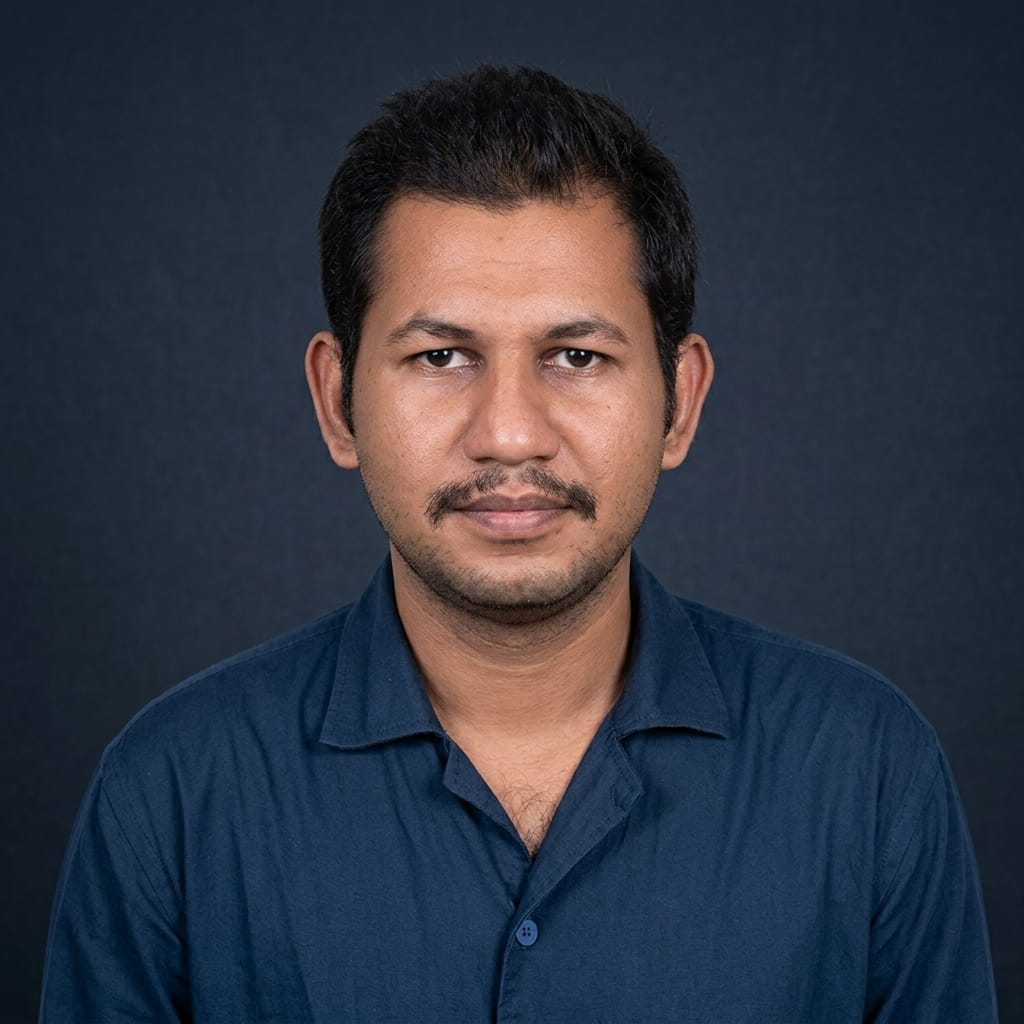
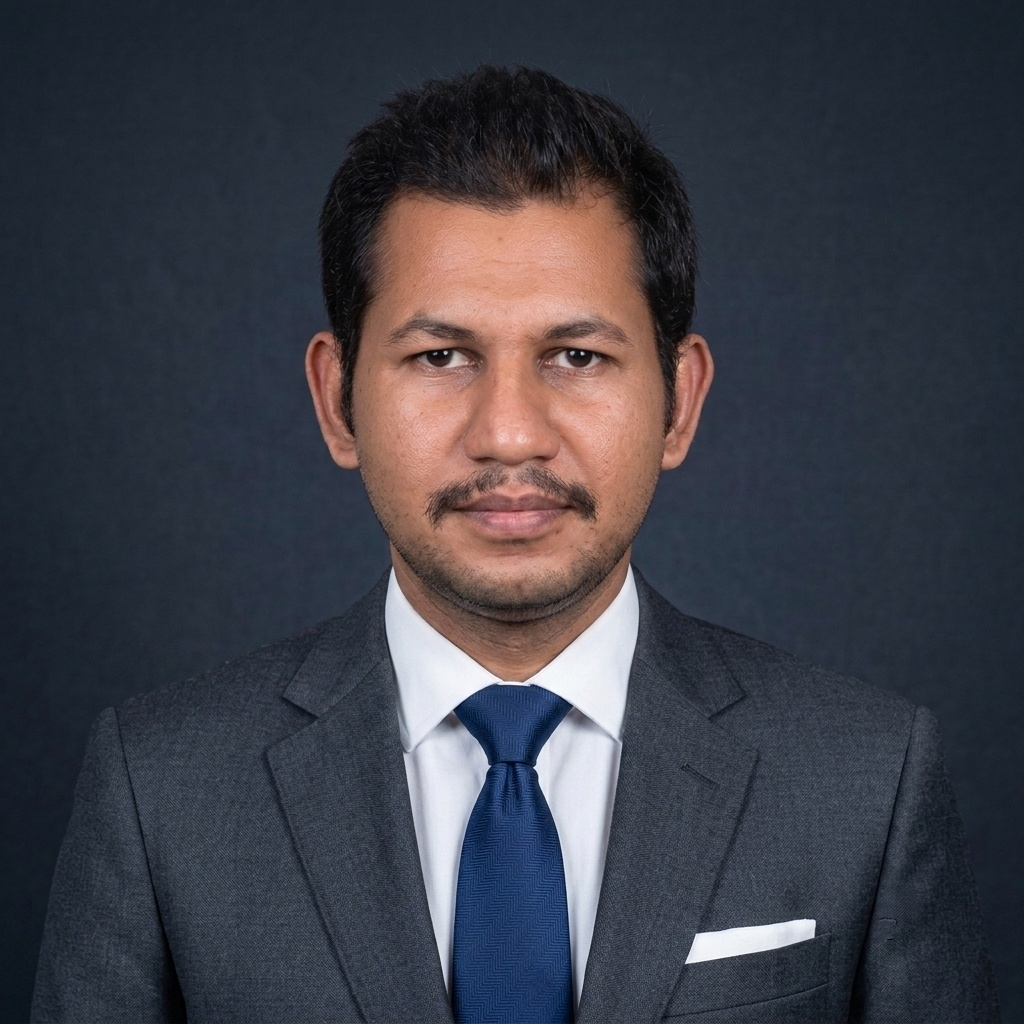
feat(portrait): add watermark-free professional portrait in webp and jpg formats

Changed region(s): [[0.0312, 0.5312, 1.0, 1.0]]

diff --git a/src/components/Hero.tsx b/src/components/Hero.tsx
@@ -179,9 +179,9 @@ export const Hero: React.FC = () => {
           {/* Portrait Asset */}
           <div className="portrait-block">
             <img
-              src="/assets/images/optimized/unnamed.jpg"
+              src="/assets/images/optimized/portrait.webp"
               width="700"
-              height="697"
+              height="700"
               alt="Portrait of Ebnul Hasan Mahi"
               decoding="async"
               loading="eager"
